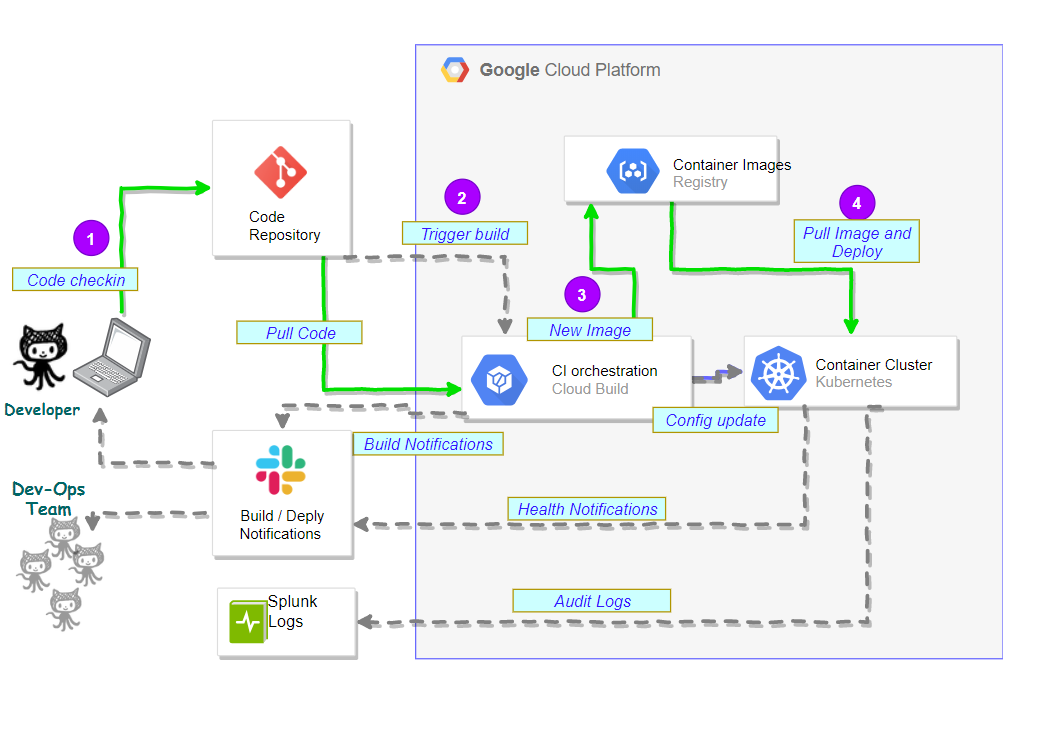
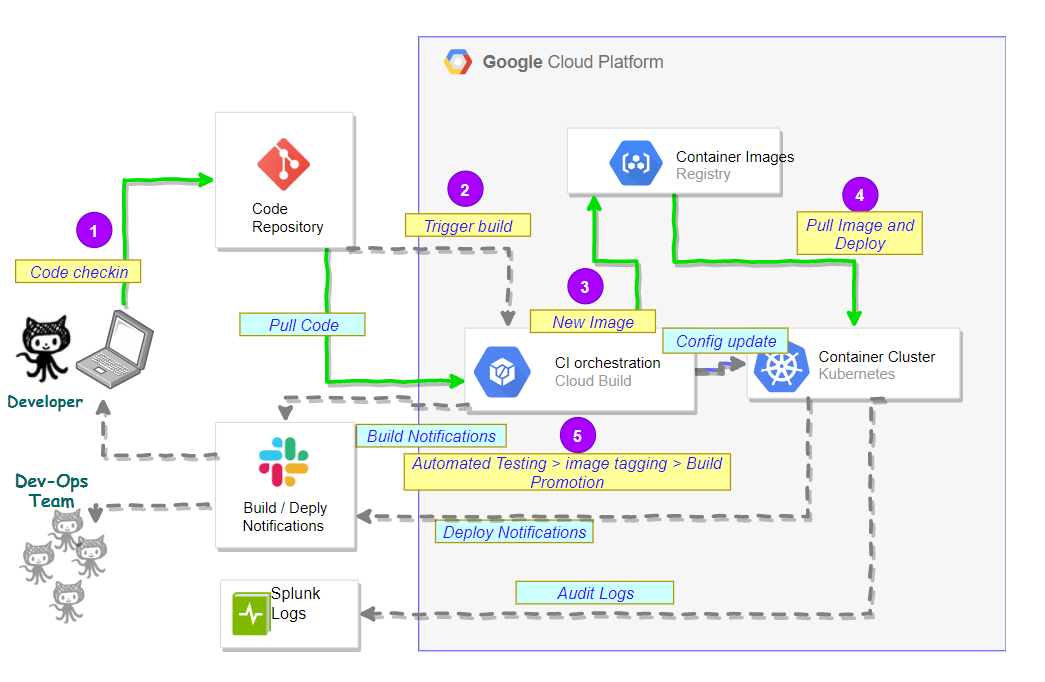
readme

Changed region(s): [[0.0, 0.154, 0.9493, 0.9545], [0.3675, 0.0308, 0.9493, 0.1232], [0.9187, 0.8622, 0.9493, 0.893]]

diff --git a/Readme.md b/Readme.md
@@ -1,18 +1,34 @@
 ## Kafka Projects  CI / CD 
 
+This project aims to define the various elements of Continuous delivery process and also provide guidelines for setup and execution of CI/CD process.
 
-### 1. CI Setup
+
+
+
+### 1. CI Overview
 
 <img src="./docs/images/DevOps-1.png" style="width:100%" />
 
-__CI setup__
+> __A CI setup__
+
+CI aims to provide a framework for facilitating software application rollout in a responsive and responsible manner. Pillars of a CI system are.
+
+* Code repository with version control
+* Version controlled applicaiton code and build automation scripts.
+* Well defined and preferably scripted steps for standing up application deployment environments.
+* Automated building of source code to `immutable` deployment images.
+* Automated and Manual test cases with clearly defined acceptence criteria.
+* Automated Build Promotion from one environment to another 
+* CI event notification system which generates  `actionable` events.
+* Auditing system for CI events.
+
 
 
 ### 2. CI / CD Execution
 
 <img src="./docs/images/DevOps-2.png" style="width:100%" />
 
-__CI in action__
+> __CI in action__
 
 
 
